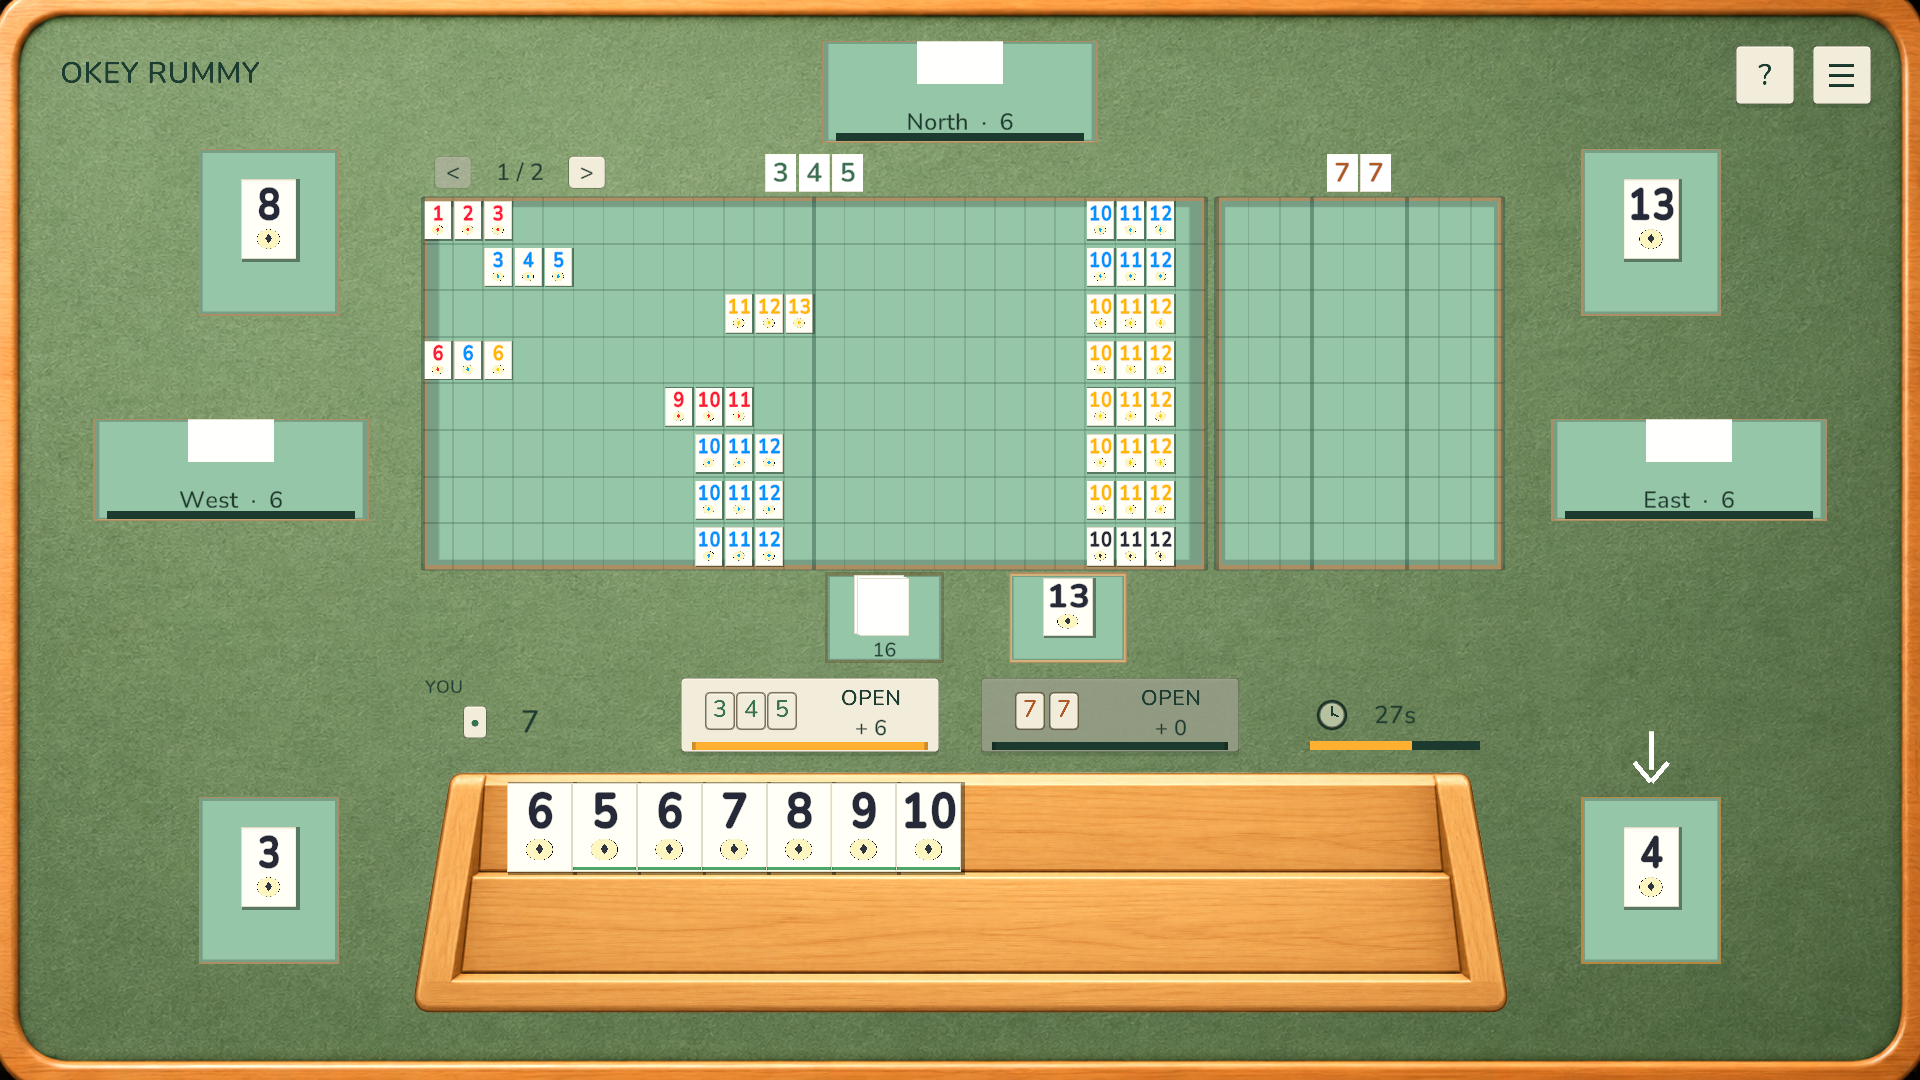
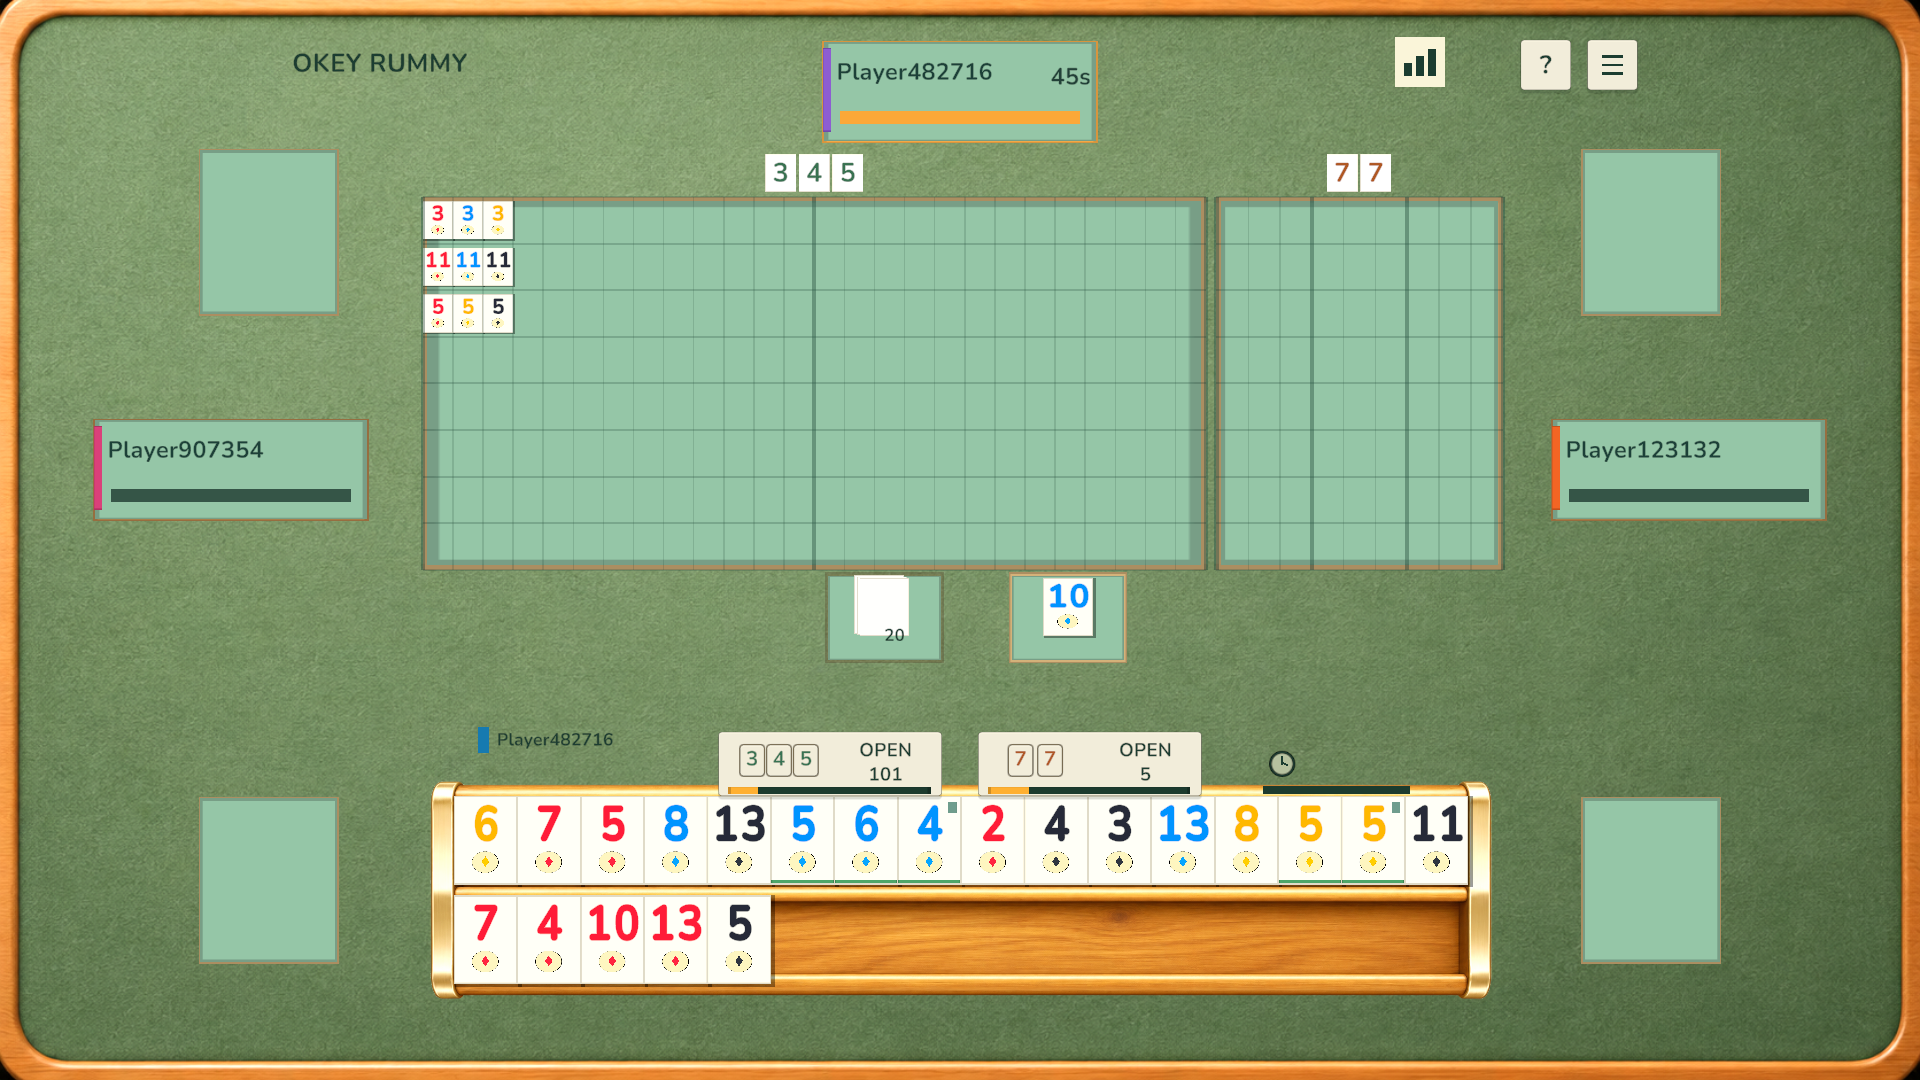
Document discard pickup and joker reclaim rules

diff --git a/README.md b/README.md
@@ -11,7 +11,7 @@ Game rules and state live in a Unity-independent C# assembly. Zenject connects t
 1. Clone the repository and open it with **Unity 6000.3.15f1** through Unity Hub.
 2. Let Unity restore the packages and import the assets.
 3. Open **Assets/Scenes/MainMenu.unity** and press Play.
-4. Choose Classic Okey or 101 Okey, individual or partnership play, and humanlike or fast opponents. 101 tables also support fixed or rising opening thresholds. Select **Play** to start a table.
+4. Choose Classic Okey or 101 Okey, individual or partnership play, and humanlike or fast opponents. 101 tables also support fixed or rising opening thresholds and an optional joker reclaim rule. Select **Play** to start a table.
 
 The main menu is the first scene in Build Settings. **SampleScene.unity** can also be opened directly for table development. Zenject and DOTween are included in the repository; no separate plugin installation is needed.
 
@@ -45,7 +45,10 @@ The main menu is the first scene in Build Settings. **SampleScene.unity** can al
 | Lay off a tile | Drag it into the highlighted empty cell of a compatible public meld. |
 | Discard | Drop a tile into the bottom-right tray, or double-tap it during your discard phase. |
 | Flip a tile | Hold it for half a second. Hold again to turn it face up. |
-| Take the previous discard | Classic: click the previous player's tray to take the tile into your rack. 101: once opened, click it to immediately extend a compatible public meld. |
+| Return a trial tile in 101 | Click the previous tray again, or click the closed pile to return it and draw instead. |
+| Reclaim a public joker | Once opened, drag the tile matching its assigned color and value onto the public joker. Enable **Reclaim** in the new-game menu. |
+| Add a pair to the table | Once opened, drag the pair by its group handle onto the pair board. A pair opening must already exist. |
+| Take the previous discard | Classic: click the previous player's tray to take the tile into your rack. 101: click it to try the tile in your rack; use it in an opening, new meld, pair or legal layoff before discarding. |
 | Start another game | Open table settings and select **New Game** to return to the menu. |
 
 Rack rearrangement is available during other players' turns. Draws, openings, layoffs and discards always pass through the table's legality checks.
@@ -72,17 +75,21 @@ The base hand, meld and pickup rules follow the [Okey rules reference](https://w
 
 The default table uses a 106-tile deck. A random starting seat receives 22 tiles; the other seats receive 21. An indicator is set aside and 20 tiles remain in the stock. Subsequent tables rotate the starting seat. The indicator determines the real joker; fake jokers represent that fixed color and value.
 
-An initial series opening needs **101 points**, or a pair opening needs **five pairs**. The local opening evaluator uses adjacent tiles on the same rack row and reserves a tile for the final discard. Invalid opening attempts apply a configurable penalty and preserve the hand. Additional melds use the player's existing opening mode. Joker assignments in public melds remain fixed. Each series or set occupies its own row. Runs use number-aligned columns: 1–2–3 starts at the left edge, while 3–4–5 reserves two positions on its left and the remaining values on its right. Sets reserve fixed color slots. Adding tiles keeps existing tiles and other melds in place. Rows fill downward through separate lanes; page buttons or the mouse wheel keep a full board accessible without shrinking tiles.
+An initial series opening needs **101 points**, or a pair opening needs **five pairs**. The local opening evaluator uses adjacent tiles on the same rack row and reserves a tile for the final discard. Invalid opening attempts apply a configurable penalty and preserve the hand. Additional series melds use the player's existing opening mode. After anyone opens pairs, a series-opened player may also add pairs without changing their original opening mode or score treatment. Joker assignments in public melds remain fixed. Each series or set occupies its own row. Runs use number-aligned columns: 1–2–3 starts at the left edge, while 3–4–5 reserves two positions on its left and the remaining values on its right. Sets pack their three tiles side by side; the fourth color appends to the right without moving the existing tiles. Adding tiles keeps existing tiles and other melds in place. Rows fill downward through separate lanes; page buttons or the mouse wheel keep a full board accessible without shrinking tiles.
 
 Rising openings increase the series and pair thresholds independently. Each successful initial opening sets its corresponding next threshold to the opened total plus a configurable increment, which defaults to one. Additional melds and invalid attempts do not raise thresholds.
 
-101 forbids taking a discard while closed. An opened player may take only the previous seat's latest discard, and only to immediately extend a public meld. Failed pickups change neither the discard nor the stock.
+101 allows a trial of the previous seat's latest discard even while closed. The borrowed physical tile must participate in an opening that meets the current threshold, or, once opened, in a new meld, a pair or a legal public layoff. An unrelated opening cannot commit the pickup, and discarding is blocked until the borrowed tile is used. Clicking the tray again returns it without consuming stock; clicking the closed pile returns it and draws instead. A timeout also returns an unused trial tile before drawing. Explicit invalid opening attempts still receive the configured penalty.
+
+With joker reclaim enabled, an opened player may replace a public real joker with the tile matching its fixed assigned color and value. The physical joker returns to the replacing player's rack, in the replacement tile's slot. The original meld owner receives the profile's **Joker Reclaim Penalty**, default **101**; zero disables the charge while keeping reclaim available. **Reclaim Off** disables the exchange itself. This project uses one exact assigned replacement for runs, sets and pairs, including sets whose missing color could otherwise be ambiguous.
+
+The discard-use and pair-processing rules follow [Zynga's discard pickup guidance](https://zyngasupport.zendesk.com/hc/tr/articles/115003520231-Soldan-ta%C5%9F-al%C4%B1nabilir-mi) and [series-to-pairs guidance](https://zyngasupport.zendesk.com/hc/tr/articles/115003521251-Seri-a%C3%A7an-biri-%C3%A7ifte-i%C5%9Fleme-yapabilir-mi). [Zynga's joker guidance](https://zyngasupport.zendesk.com/hc/tr/articles/115003539012-Yerden-Okey-al%C4%B1nabilir-mi) requires an opened hand and a matching replacement. The optional owner charge follows the [101 Çetele rule summary](https://okey101cetele.com/blog/yandan-yerden-tas-alma); joker exchange variants differ between tables, so the exact assignment and penalty are explicit project rules.
 
 Successful openings refresh the turn timer. When time expires, the game cancels any drag, draws once if required and discards the lowest non-joker tile that cannot extend a public meld. If none is safe, a playable tile is preferred over a joker. Discarding the final tile finishes the round. Partnership scoring groups opposite seats and excludes the winning partner's remaining hand.
 
-![Reserved meld rows and paging](Docs/Images/meld-board-layout.png)
+![Contiguous sets on separate rows](Docs/Images/meld-board-layout.png)
 
-Layout preview using a custom stress-test deck: number-aligned runs, fixed color slots and twenty public melds across two pages.
+Layout preview: three-tile sets stay contiguous and each meld occupies its own row.
 
 These are the project's explicit rule choices. Other regional variants and indicator-show bonuses are not implemented.
 
@@ -94,9 +101,9 @@ Matches default to five hands, configured by `Match Rounds` on the table setting
 
 101 defaults to **−101 for finishing**, **101 for discarding a real joker**, and **101 for discarding a tile that extends a public meld**. The rule profile exposes `Winner Score`, `Joker Discard Penalty` and `Playable Discard Penalty` independently. Zero disables either discard charge. Final-tile finishes retain the scoring policy's joker/pair bonuses rather than receiving an extra discard charge.
 
-No player's hand count appears on the table. Fixed openings show the required threshold alone; rising openings show the current increased requirement. Initial openings announce the player and public opening value. Local turns show **YOUR TURN** and play a short cue. Drawing, discarding, opening, laying off, penalties and finishing have quieter event sounds; all bundled clips are procedurally synthesized and can be replaced in the audio asset. Long tile moves use a configurable shallow arc.
+No player's hand count appears on the table. Fixed openings show the required threshold alone; rising openings show the current increased requirement. Initial openings announce the player and public opening value. Local turns show **YOUR TURN** and play a short cue. Drawing, discarding, opening, laying off, penalties and finishing have quieter event sounds; all bundled clips are procedurally synthesized and can be replaced in the audio asset. Playable discards, joker discards and joker reclaims announce the affected player and charge explicitly. Notices queue so an opening or turn announcement cannot erase a penalty. Long tile moves use a configurable shallow arc.
 
-Rack group handles use a mixed run/set/pair evaluation independent of whether an opening is legal yet. Whole-group drops remain within one shelf, shift neighboring tiles and preserve physical tile identity. Group drags never trigger discard or layoff actions.
+Rack group handles use a mixed run/set/pair evaluation independent of whether an opening is legal yet. Whole-group drops remain within one shelf, shift neighboring tiles and preserve physical tile identity. Group drags never discard a group. A pair can be dropped onto the pair board when pair processing is legal; other outside-rack group drops return to the rack.
 
 ![101 score sheet](Docs/Images/score-sheet.png)
 
@@ -150,8 +157,8 @@ Multiplayer is not implemented. A future transport adapter can submit `PlayerAct
 
 | Asset | Editable values |
 | --- | --- |
-| `Assets/Settings/Dealing/Standard101Table.asset` | Available rule profiles, selected profile, player count, rising increment, partnerships, pickup rules, starter selection, timers, match hand count and bot behavior. |
-| `Assets/Settings/Dealing/Okey101Rules.asset` | 101 hand size, tile range, opening thresholds, penalties and score multipliers. |
+| `Assets/Settings/Dealing/Standard101Table.asset` | Available rule profiles, selected profile, player count, rising increment, partnerships, pickup and joker reclaim rules, starter selection, timers, match hand count and bot behavior. |
+| `Assets/Settings/Dealing/Okey101Rules.asset` | 101 hand size, tile range, opening thresholds, penalties (including joker reclaim) and score multipliers. |
 | `Assets/Settings/Dealing/ClassicOkeyRules.asset` | Classic hand size, tile range, pair count, round loss points and score multipliers. |
 | `Assets/Settings/Decks/StandardOkeyDeck.asset` | Tile types, colors, number ranges and copies. |
 | `Assets/Settings/Dealing/StandardOpeningDeal.asset` | Fixed or random shuffle seed. Its practice-hand fields are separate from table settings. |
@@ -210,7 +217,7 @@ Scene installers hold serialized asset and prefab references. Runtime controller
 
 Open **Window > General > Test Runner** and run both **EditMode** and **PlayMode** suites.
 
-EditMode tests cover definitions, deck generation, rack insertion, adjacent grouping, meld rules, penalties, rising thresholds, AI decisions, timers, ownership boundaries, replaceable opening policies and independent setup snapshots. PlayMode tests load actual scenes and verify Zenject bindings, prefab wiring, pointer interactions, drawing, discarding, layoffs, visibility, menu navigation, UI progress and local players in every supported seat.
+EditMode tests cover definitions, deck generation, rack insertion, adjacent grouping, meld rules, penalties, rising thresholds, AI decisions, timers, ownership boundaries, replaceable opening policies and independent setup snapshots. PlayMode tests load actual scenes and verify Zenject bindings, prefab wiring, pointer interactions, drawing, Classic discard pickup through real mouse input, trial returns, joker exchanges, pair group drops, queued feedback, discarding, layoffs, visibility, menu navigation, UI progress and local players in every supported seat.
 
 Table and menu layouts are also checked at **1920 × 1080** and **1106 × 614**. Preview images live in `Docs/Images`.
 
